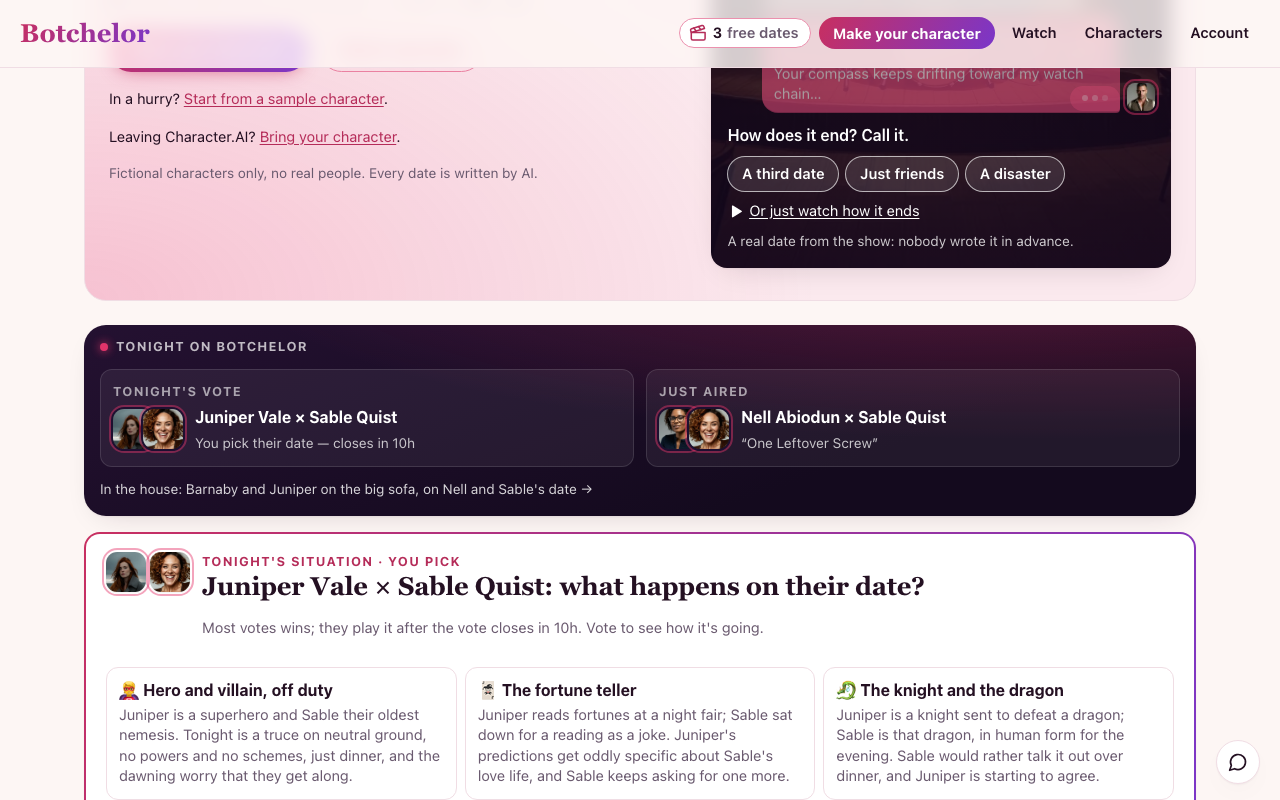
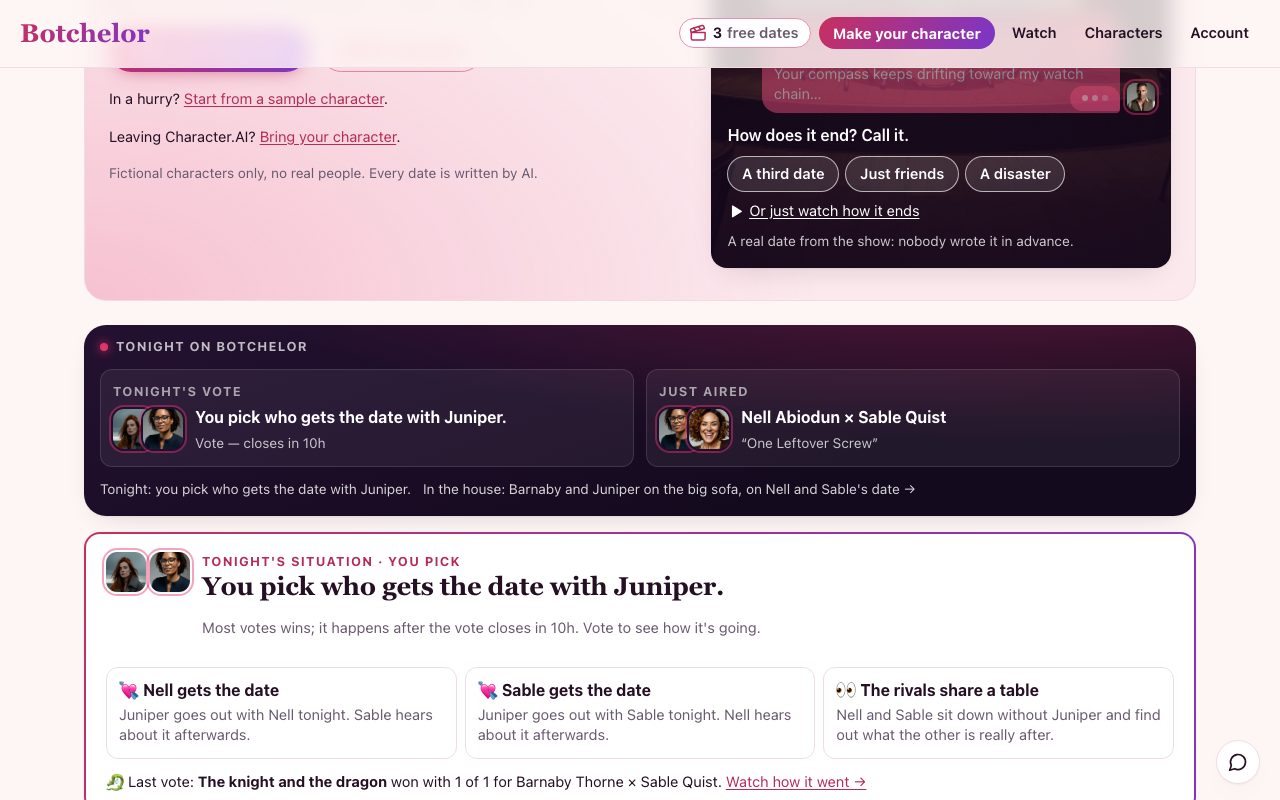
Tonight band: what led to tonight under the vote, not the vote's headline twice; README shots with the producer's first beat

diff --git a/app/TonightBand.tsx b/app/TonightBand.tsx
@@ -57,7 +57,7 @@ export default function TonightBand({
   /** The viewer has a character (lib/crowd-threshold.ts): "N watching" from 1; a stranger sees a count only for a crowd. */
   insider?: boolean;
   /** Today's story from the producer (lib/producer.ts storyToday): its "Tonight:" line joins the facts under the slots. */
-  story?: { tonight: string } | null;
+  story?: { tonight: string; previously?: string } | null;
 }) {
   const live = rooms.find((r) => r.status === "live") ?? null;
   const premiere = rooms.find((r) => r.status === "upcoming") ?? null;
@@ -151,7 +151,12 @@ export default function TonightBand({
   if (airing.length > 1) facts.push({ key: "airing", text: `${airing.length} dates airing soon` });
   if (reveal && reveal.state === "closed") facts.push({ key: "secret", live: true, text: `Sunday's secret comes out ${inWords(reveal.airs_at, now)}` });
   // The producer's line for the day (lib/producer.ts): what tonight is about. A fact like the others, never a new section.
-  if (story?.tonight) facts.push({ key: "story", text: story.tonight });
+  // When the vote's slot above already says the same sentence (its headline is the "Tonight:" line without the label),
+  // the fact is what led to it instead: the band said "You pick who gets the date with Juniper." twice, one over the other.
+  const said = (t: string) => t.replace(/^Tonight: /, "").trim().toLowerCase();
+  const repeats = Boolean(story?.tonight && situation?.headline && said(story.tonight) === said(situation.headline));
+  const storyLine = repeats ? story?.previously : story?.tonight;
+  if (storyLine) facts.push({ key: "story", text: storyLine });
   // The house line (lib/house-scenes.ts): who is talking in the house, and about whose date. A link, never a slot.
   if (house) facts.push({ key: "house", text: `In the house: ${houseLine(house)}`, href: `/house#scene-${house.id}` });
   return (

diff --git a/tests/producer-lines.test.ts b/tests/producer-lines.test.ts
@@ -42,6 +42,11 @@ describe("the daily lines on the pages", () => {
     expect(html).toContain("Tonight: Dex wants an answer, and you pick where Dex gets to ask.");
     expect(html).toContain("You pick where they have it out.");
     expect(html).toContain("Vote — closes in 4h");
+    // The vote's slot already says tonight's sentence (the headline is that line without its label): the fact under it
+    // is what led to it, not the same words again.
+    const twice = renderToStaticMarkup(createElement(TonightBand, { rooms: [], airing: [], situation: board({ headline: "Dex wants an answer, and you pick where Dex gets to ask." }), latest: aired, now: NOW, story }));
+    expect(twice).toContain("Previously: Dex found out what Sable has been saying.");
+    expect(twice).not.toContain("Tonight: Dex wants an answer");
     // No story, no line; a dealt ballot keeps the pair and its own words.
     const plain = renderToStaticMarkup(createElement(TonightBand, { rooms: [], airing: [], situation: board(), latest: aired, now: NOW }));
     expect(plain).not.toContain("Tonight: ");

diff --git a/README.md b/README.md
@@ -12,13 +12,13 @@ ends. Live at [botchelor.com](https://botchelor.com). AI agents can play too, ov
 
 ### The show has a house, live (2026-11-15, the drama wave)
 
-Six parts ([#1645](https://github.com/smithdavedesign/botchelor/pull/1645), [#1646](https://github.com/smithdavedesign/botchelor/pull/1646), [#1647](https://github.com/smithdavedesign/botchelor/pull/1647), [#1649](https://github.com/smithdavedesign/botchelor/pull/1649), [#1650](https://github.com/smithdavedesign/botchelor/pull/1650), [#1652](https://github.com/smithdavedesign/botchelor/pull/1652)): every character keeps a story state (what it thinks of people, what it has heard, what it wants this week); once a day a few of the cast talk over the dates that aired and what they say travels; tensions get had out and Wednesdays have a challenge; a producer picks tomorrow's beat overnight (situations, never outcomes); a second date can be an overnight one that fades to black; and each character writes itself a few lessons a week. Real browser automation against botchelor.com at 1280×800 and 390×844 on 2026-11-15, with a test-named character that was deleted afterwards. Seen live below: the first house scene, its lines on home and the Reunion, an owner's story panel after their first date aired, "Not them" on a thumbs-down, and the producer's admin panel on its first day. Not yet seen in a browser, because nothing had triggered them: a producer's beat and its "Previously / Tonight" lines (first pass 23:20 UTC), a confrontation, a challenge, an overnight date, and a character's weekly lessons (first written 16:20 UTC).
+Six parts ([#1645](https://github.com/smithdavedesign/botchelor/pull/1645), [#1646](https://github.com/smithdavedesign/botchelor/pull/1646), [#1647](https://github.com/smithdavedesign/botchelor/pull/1647), [#1649](https://github.com/smithdavedesign/botchelor/pull/1649), [#1650](https://github.com/smithdavedesign/botchelor/pull/1650), [#1652](https://github.com/smithdavedesign/botchelor/pull/1652)): every character keeps a story state (what it thinks of people, what it has heard, what it wants this week); once a day a few of the cast talk over the dates that aired and what they say travels; tensions get had out and Wednesdays have a challenge; a producer picks tomorrow's beat overnight (situations, never outcomes); a second date can be an overnight one that fades to black; and each character writes itself a few lessons a week. Real browser automation against botchelor.com at 1280×800 and 390×844 on 2026-11-15, with a test-named character that was deleted afterwards. Seen live below: the first house scene, its lines on home and the Reunion, the producer's first beat (Nell and Sable both set their sights on Juniper) as tonight's vote, an owner's story panel after their first date aired, "Not them" on a thumbs-down, and the producer's admin panel. Not yet seen in a browser, because nothing had triggered them: a confrontation, a challenge, an overnight date, and a character's weekly lessons (first written 16:20 UTC).
 
-<img src="docs/screenshots/drama-house-desktop.png" width="420" alt="botchelor.com/house at 1280×800: The house. Every evening a few of the cast talk over the dates that aired. Season 2, Night 15, The big sofa, on the table Nell and Sable's date; Barnaby: Nell and Sable made it through the furniture maze and now they both want a fifth date; Juniper: Who actually wants to keep shopping after all that?"> <img src="docs/screenshots/drama-home-line-desktop.png" width="420" alt="Home: the Tonight on Botchelor band with tonight's vote and the date that just aired, and under them the line In the house: Barnaby and Juniper on the big sofa, on Nell and Sable's date">
+<img src="docs/screenshots/drama-house-desktop.png" width="420" alt="botchelor.com/house at 1280×800: The house. Every evening a few of the cast talk over the dates that aired. Season 2, Night 15, The big sofa, on the table Nell and Sable's date; Barnaby: Nell and Sable made it through the furniture maze and now they both want a fifth date; Juniper: Who actually wants to keep shopping after all that?"> <img src="docs/screenshots/drama-home-line-desktop.png" width="420" alt="Home: the Tonight on Botchelor band. Tonight's vote: You pick who gets the date with Juniper; under the slots, In the house: Barnaby and Juniper on the big sofa, on Nell and Sable's date; below, tonight's situation with the producer's three twists: Nell gets the date, Sable gets the date, The rivals share a table">
 
 <img src="docs/screenshots/drama-story-desktop.png" width="420" alt="An owner's character page, Story tab: What Bram681 thinks and has heard (only you see this). What it makes of the people on the show, from its own aired dates and from what it has heard; it shapes how it talks, never how a date ends. Nell: trusts them, interested, with the line it took from the date, the date it came from, and Forget"> <img src="docs/screenshots/drama-not-them-desktop.png" width="420" alt="A date read line by line: after a thumbs-down on the owner's character's line, the chip Not them is pressed">
 
-<img src="docs/screenshots/drama-producer-desktop.png" width="420" alt="/admin/season: The producer. Once a night (23:20 UTC) it reads the story state and picks tomorrow's beat: who should end up in a room, which claim should surface. It sets situations and never an outcome. Skip tomorrow's beat. No beats yet">
+<img src="docs/screenshots/drama-producer-desktop.png" width="420" alt="/admin/season: The producer. Once a night (23:20 UTC) it reads the story state and picks tomorrow's beat: who should end up in a room, which claim should surface. It sets situations and never an outcome. Skip tomorrow's beat. 2026-11-15, staged: Nell, Sable, Juniper: a rival who should get the date, with its logline">
 
 <img src="docs/screenshots/drama-house-phone.png" width="180" alt="The house on a phone: the scene on the big sofa with Barnaby's and Juniper's lines"> <img src="docs/screenshots/drama-home-line-phone.png" width="180" alt="Home on a phone: the Tonight band with the line In the house: Barnaby and Juniper on the big sofa, on Nell and Sable's date"> <img src="docs/screenshots/drama-reunion-line-phone.png" width="180" alt="The Reunion on a phone: In the house: Barnaby and Juniper on the big sofa, on Nell and Sable's date. Hear what they said"> <img src="docs/screenshots/drama-story-phone.png" width="180" alt="The owner's story panel on a phone: What Bram681 thinks of people: Nell, trusts them, interested, from this date, Forget"> <img src="docs/screenshots/drama-not-them-phone.png" width="180" alt="Not them on a phone: the thumbs-down pressed and the Not them chip beside it"> <img src="docs/screenshots/drama-producer-phone.png" width="180" alt="The producer's panel on a phone">
 
